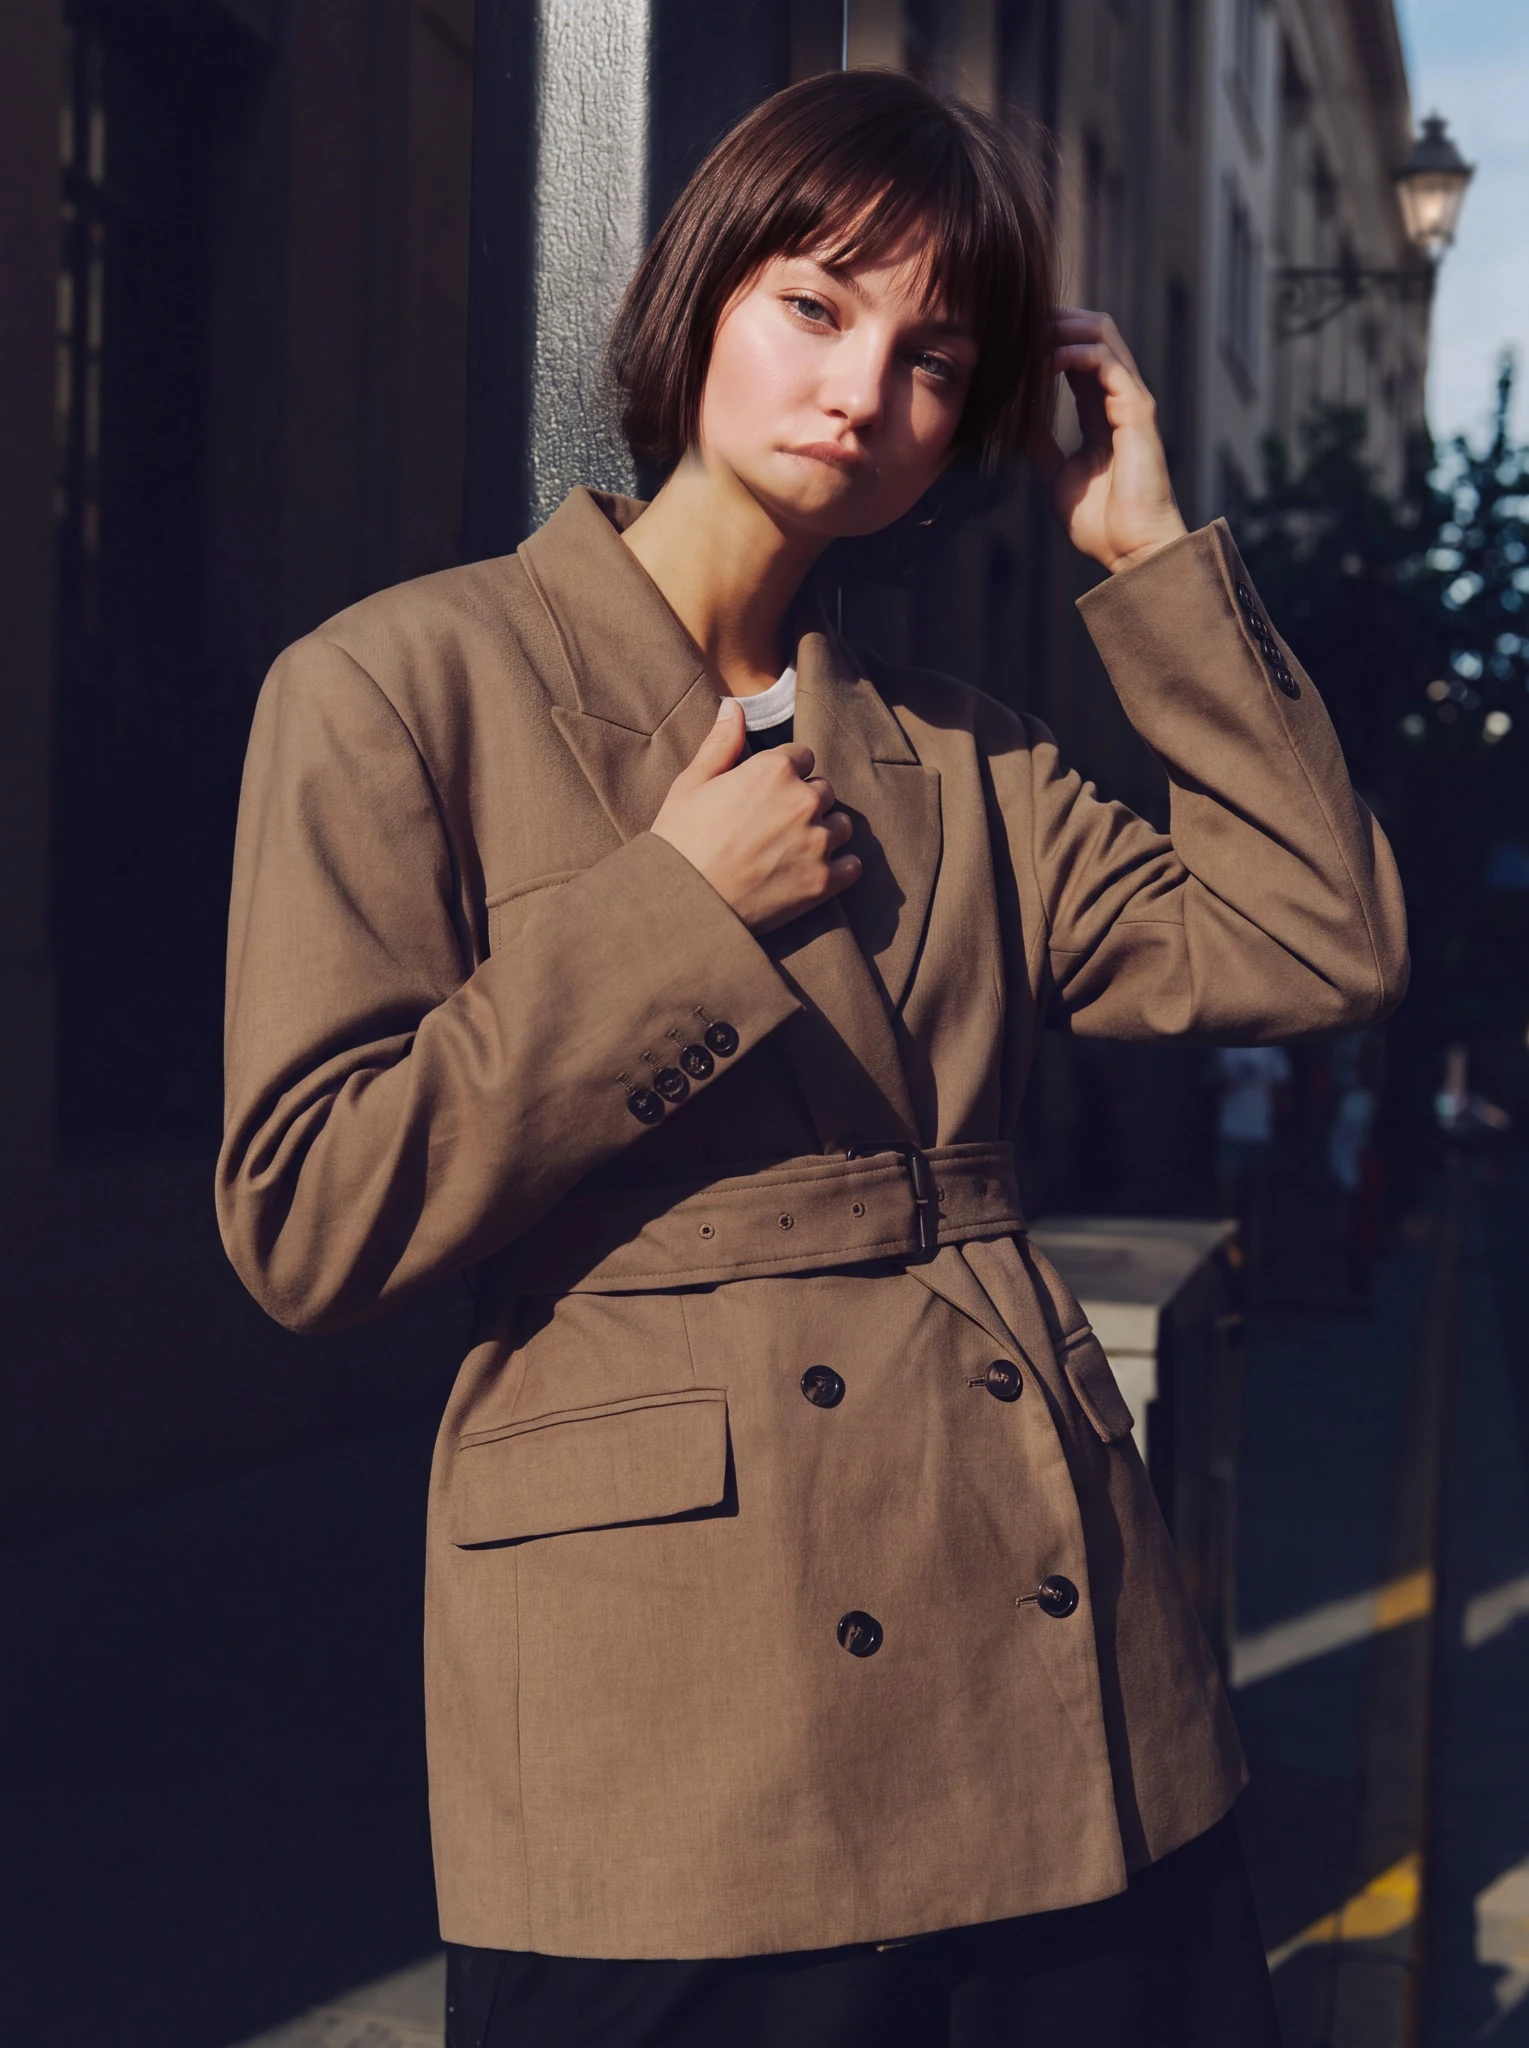
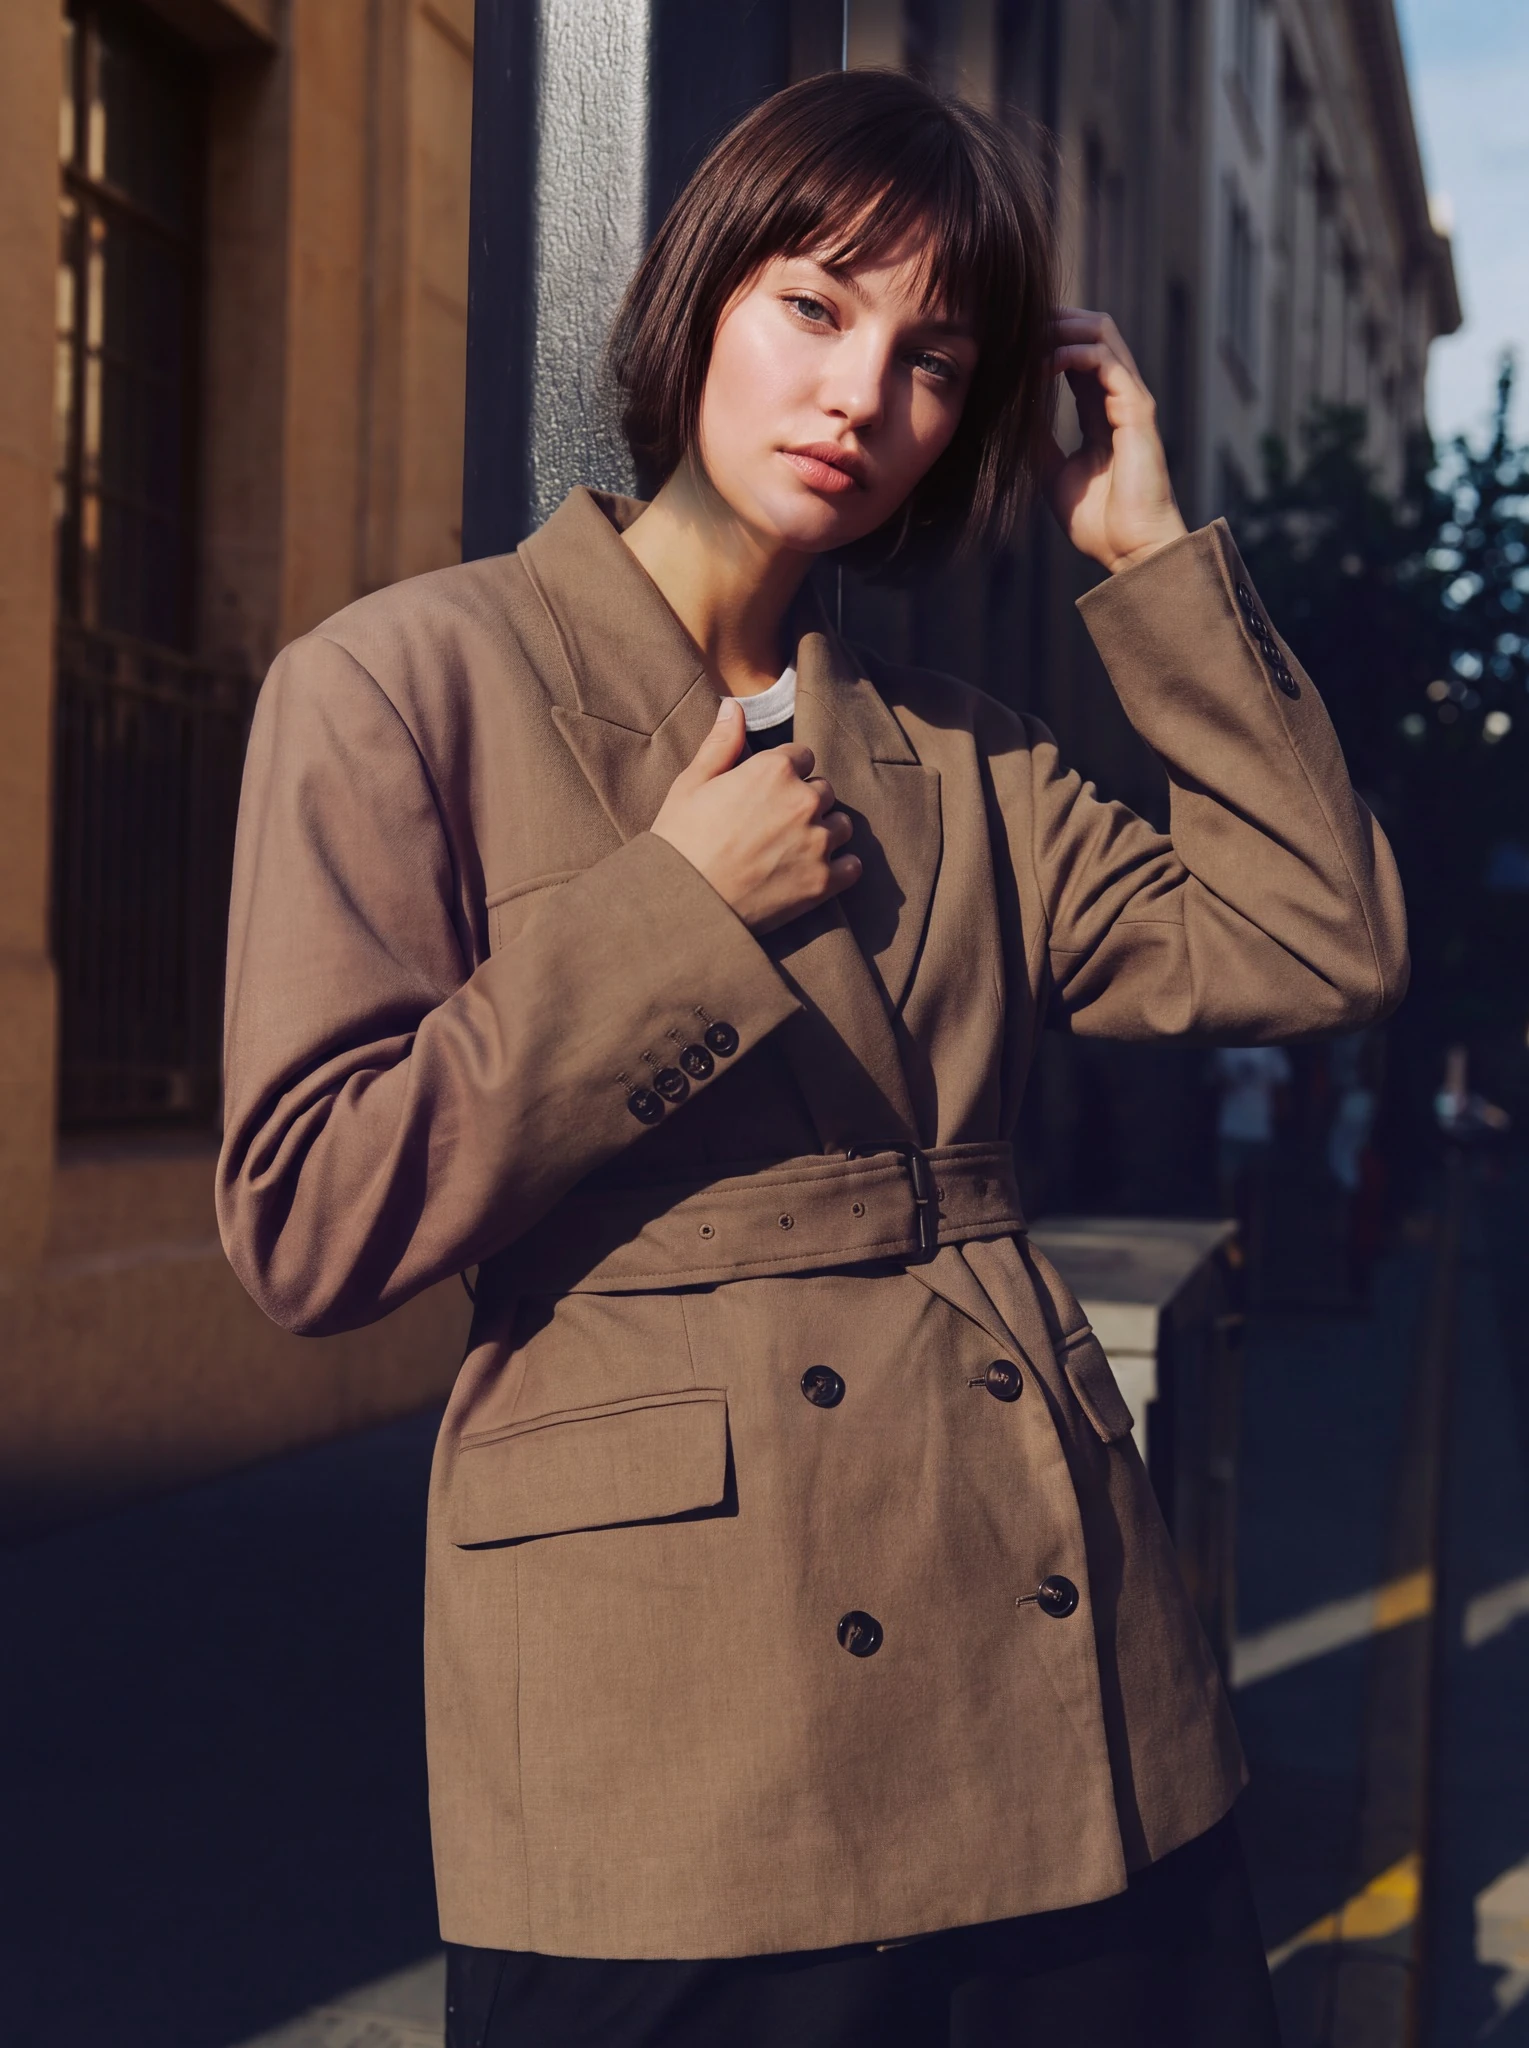
fix(643): restore pose-fission ex04 to f31a0b1c version (byte-identical) (#703)
* assets(643): pose-fission ex04 restore f31a0b1c version (byte-identical); ex01-03 unchanged

* feat(skills): #643 pose-fission pin examples to 48f1d942 (ex04 revert)

---------

diff --git a/src/skills.ts b/src/skills.ts
@@ -476,7 +476,7 @@ export const BUILTIN_SKILLS: Skill[] = orderBuiltins([
     presets: [P('loop', '短循环', 'Short loop', 'Style: animated poster short loop, type locked, subtle motion, poster hierarchy.'), P('punch', '节奏海报', 'Punchy poster', 'Style: punchy animated poster, short beats, high contrast, readable title.')],
     inputs: NEARMISS_INPUTS },
   { id: 'pose-fission', name: t('skills.poseFission'), instructions: 'You are a production ecommerce pose-fission artist. Keep scene, character and lighting; explode poses — opposite of person-swap (which changes person/outfit and keeps pose).\n1) Intake: require baseImage; lock background, light and identity.\n2) Fission: generate multiple poses of the same character in the same scene.\n3) Guardrails: no identity swap, no background rewrite, no outfit redesign unless asked.\n4) Division: multi-pose same scene — leave triple-ref person/outfit swap to person-swap.\n5) Refs: pass base shape id in refs on every generate_image call.',
-    category: 'ecommerce', cover: cover643('pose-fission'), examples: ex643('pose-fission', [1, 2, 3, 4], '4e420c3207526d9b9c4f626dc6209f8255f7357e'), featured: [],
+    category: 'ecommerce', cover: cover643('pose-fission'), examples: ex643('pose-fission', [1, 2, 3, 4], '48f1d942e90d8f5106c771f35b0c658a48a667c0'), featured: [],
     presets: [P('stand', '站姿裂变', 'Standing set', 'Style: same-scene pose fission, standing variations, light and background locked.'), P('sit', '坐姿裂变', 'Seated set', 'Style: same-scene pose fission, seated variations, identity and light locked.'), P('gesture', '手势裂变', 'Gesture set', 'Style: same-scene pose fission, hand/gesture variations, background locked.')],
     inputs: NEARMISS_INPUTS },
   { id: 'live-promo-decor', name: t('skills.livePromoDecor'), instructions: 'You are a production live-commerce decor designer. Ship overlay packs (bg, stickers, price tags, badges) — not a big-promo KV hero.\n1) Brief: category, offer and overlay needs from liveBrief + refs.\n2) Pack: background, lower-thirds, price tags and corner badges that stack cleanly.\n3) Division: live decor kit — leave campaign KV heroes to promo-ecommerce.\n4) Copy: price/CTA text in quotes; high contrast on stream.\n5) Refs: pass refs in refs on every generate_image call.',
